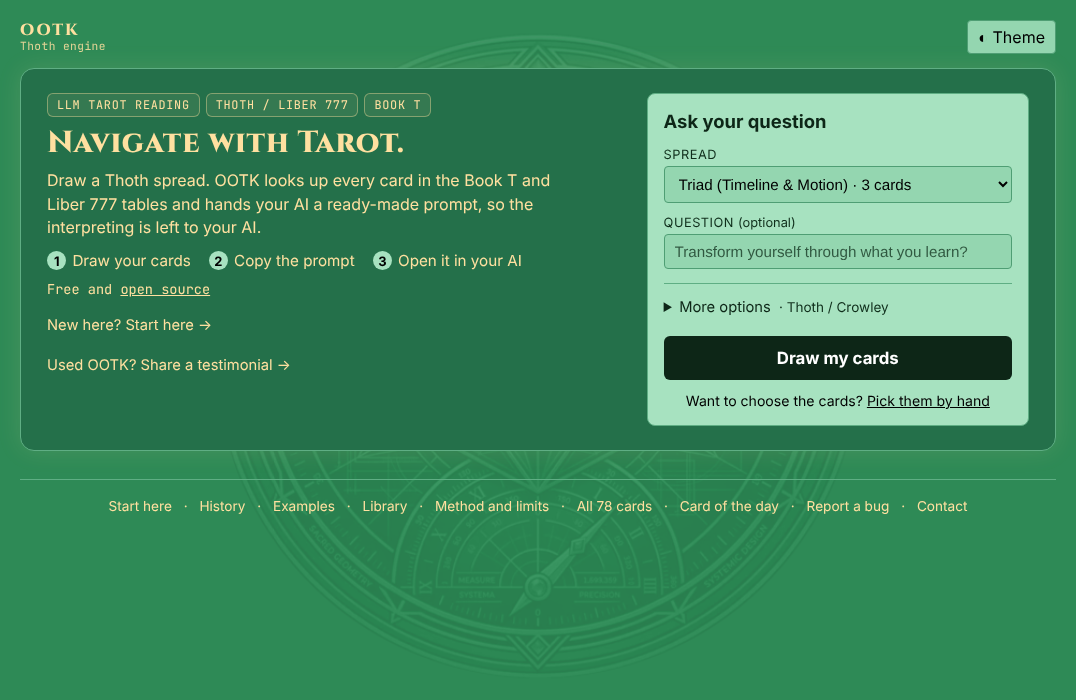
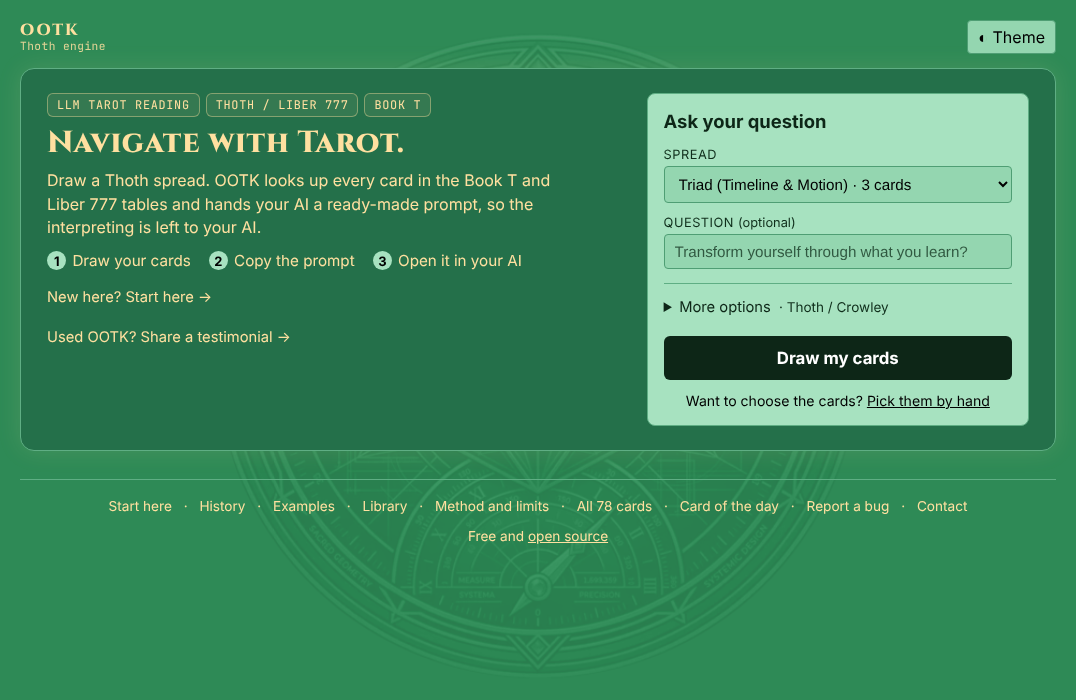
Front page: move "Free and open source" below the footer
Claude-Session: https://claude.ai/code/session_01PrGp12vzg278Ct7rsdHJHw

Changed region(s): [[0.0307, 0.39, 0.276, 0.54], [0.4294, 0.75, 0.5827, 0.78]]

diff --git a/templates/index.html b/templates/index.html
@@ -28,7 +28,6 @@
         .band { display: grid; grid-template-columns: minmax(0, 1.5fr) minmax(0, 1fr); gap: 26px; align-items: start; }
         .band .steps, .band .hero-actions { justify-content: flex-start; }
         .band .steps span { background: var(--tile-bg); }
-        .band .trust { font-family: "JetBrains Mono", monospace; }
         .band-text { grid-column: 1; grid-row: 1; }
         .band #readingForm { grid-column: 2; grid-row: 1 / span 2; align-self: start; max-width: none; }
         .band-more { grid-column: 1; grid-row: 2; align-self: start; }
@@ -37,12 +36,13 @@
         .band .settings p, .band .settings p a { color: var(--text); }
         #readingForm { width: 100%; max-width: 560px; justify-self: center; }
         .settings { position: static; }
-        /* The five first-screen answers: what (h1), who (tagline), how (steps), why trust (trust), next step (hero-actions). */
+        /* The first-screen answers: what (h1), who (tagline), how (steps), next step (hero-actions). */
         .steps { list-style: none; padding: 0; margin: 12px 0 0; display: flex; justify-content: center; flex-wrap: wrap; gap: 6px 18px; font-size: 0.95em; }
         .steps li { display: flex; align-items: center; gap: 6px; }
         .steps span { display: inline-grid; place-items: center; width: 1.5em; height: 1.5em; border-radius: 50%; background: var(--panel); color: var(--text); font-weight: 700; font-size: 0.85em; }
-        .trust { margin: 10px 0 0; color: var(--muted); font-size: 0.85em; }
+        .trust { margin: 0 0 16px; text-align: center; color: var(--muted); font-size: 0.85em; }
         .trust a { color: inherit; }
+        :root[data-theme="light"] .trust { color: #ffe0a0; }
         .hero-actions { display: flex; justify-content: center; align-items: center; flex-wrap: wrap; gap: 6px 18px; margin: 14px 0 0; }
         .today-link { color: var(--accent); text-decoration: none; font-size: 0.92em; padding: 4px 0; }
         .today-link:hover { text-decoration: underline; }
@@ -77,7 +77,6 @@
                 <li><span>2</span> Copy the prompt</li>
                 <li><span>3</span> Open it in your AI</li>
             </ol>
-            <p class="trust">Free and <a href="{{ repo_url }}" target="_blank" rel="noopener">open source</a></p>
         </div>
         <form action="/generate_report" method="POST" id="readingForm">
             <!-- SETTINGS: everything that shapes a reading, in one place -->
@@ -112,5 +111,6 @@
     <script src="{{ static_url('js/copy.js') }}" defer></script>
     <script src="{{ static_url('js/index.js') }}" defer></script>
 {% include "_site_footer.html" %}
+<p class="trust">Free and <a href="{{ repo_url }}" target="_blank" rel="noopener">open source</a></p>
 </body>
 </html>
